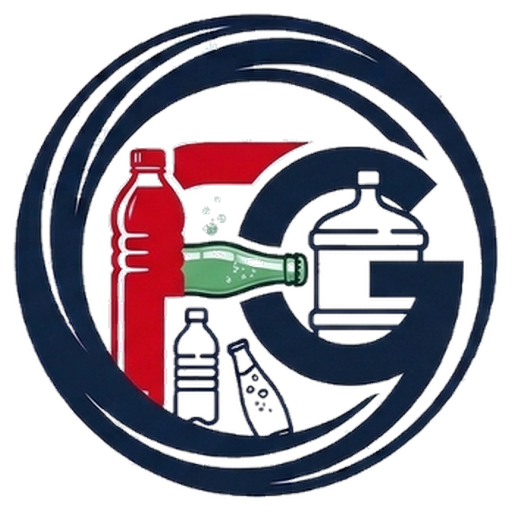
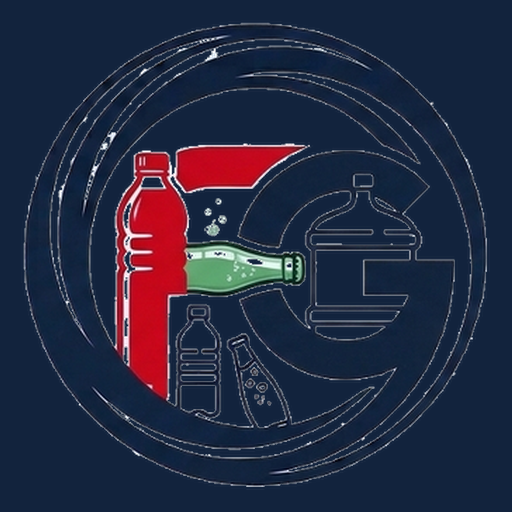
pwa: maskable ikon guvenli alana alindi ve splash kirpilmasi giderildi

diff --git a/index.html b/index.html
@@ -18,7 +18,7 @@
     <link rel="manifest" href="/manifest.json" />
     <link rel="icon" href="/favicon.ico?v=2" sizes="any" />
     <link rel="icon" type="image/png" sizes="32x32" href="/favicon-32.png?v=2" />
-    <link rel="apple-touch-icon" sizes="180x180" href="/apple-touch-icon.png?v=2" />
+    <link rel="apple-touch-icon" sizes="180x180" href="/apple-touch-icon.png?v=3" />
     <script>
       // Early capture of PWA beforeinstallprompt so it is never missed during hydration
       window.__PWA_PROMPT__ = null;

diff --git a/public/sw.js b/public/sw.js
@@ -1,5 +1,5 @@
 // Fırtına Gıda Service Worker
-const CACHE_NAME = 'sudagitim-cache-v7';
+const CACHE_NAME = 'sudagitim-cache-v8';
 const PRECACHE_ASSETS = [
   '/',
   '/index.html',
